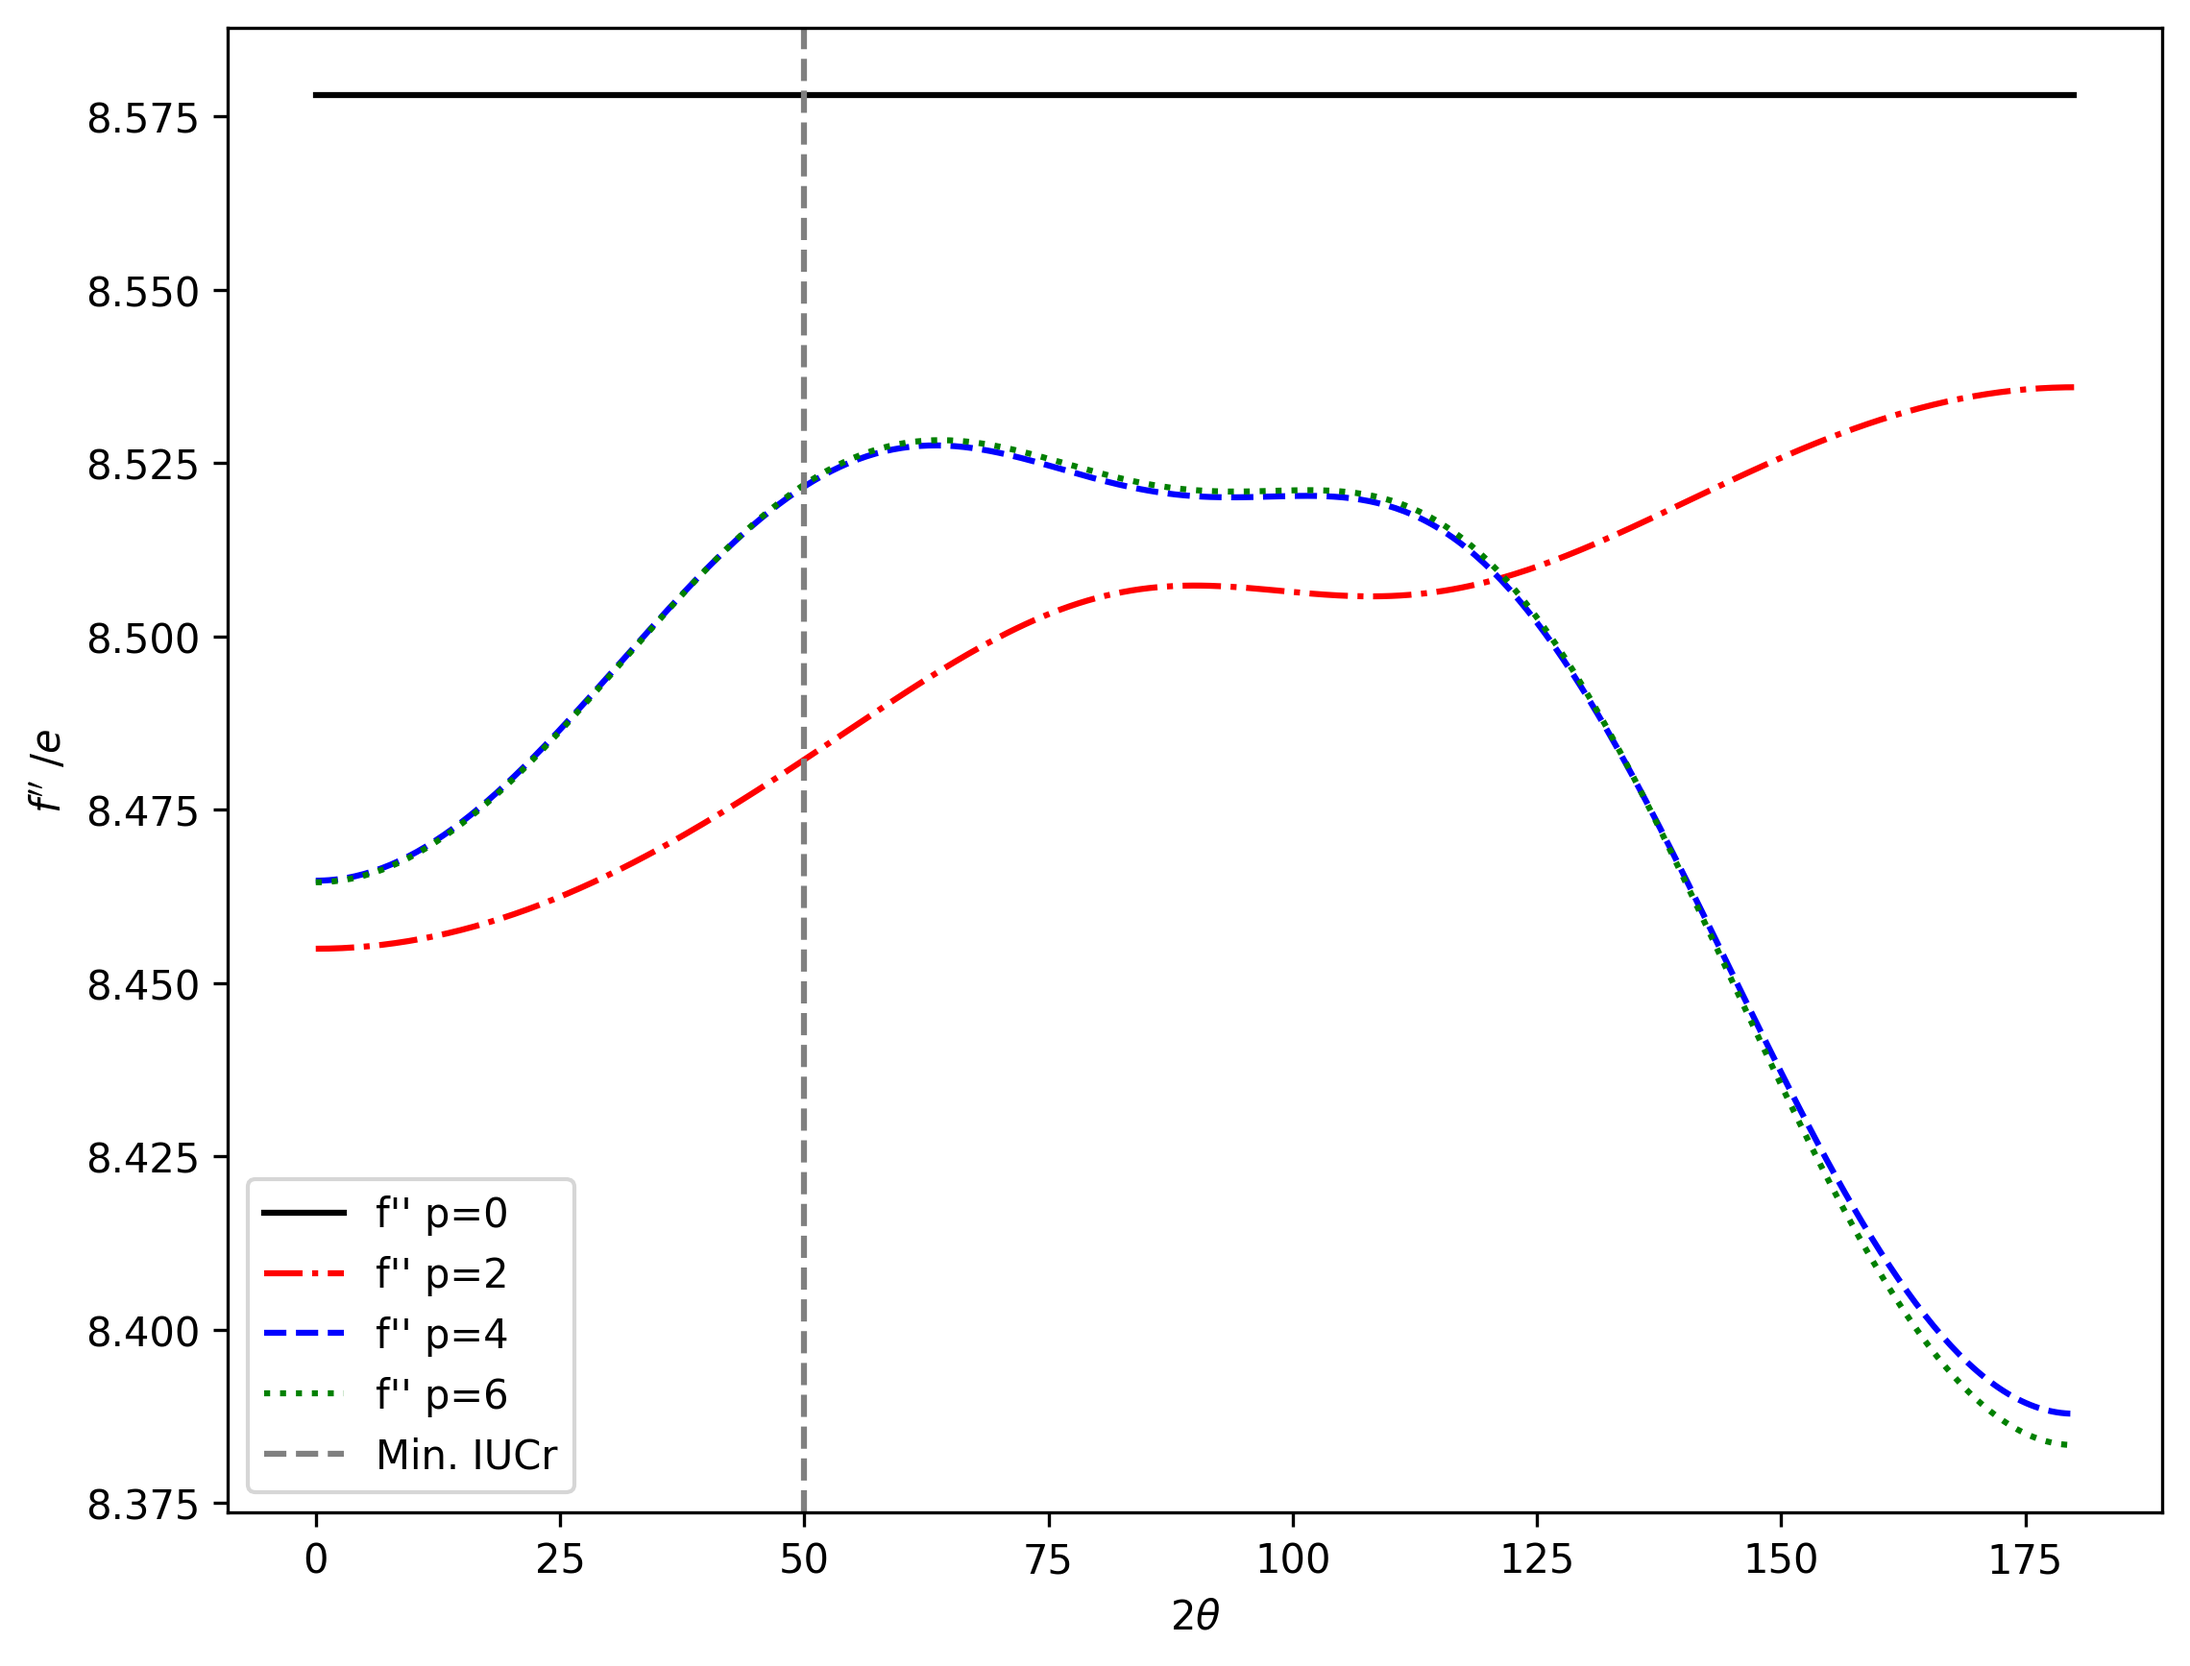
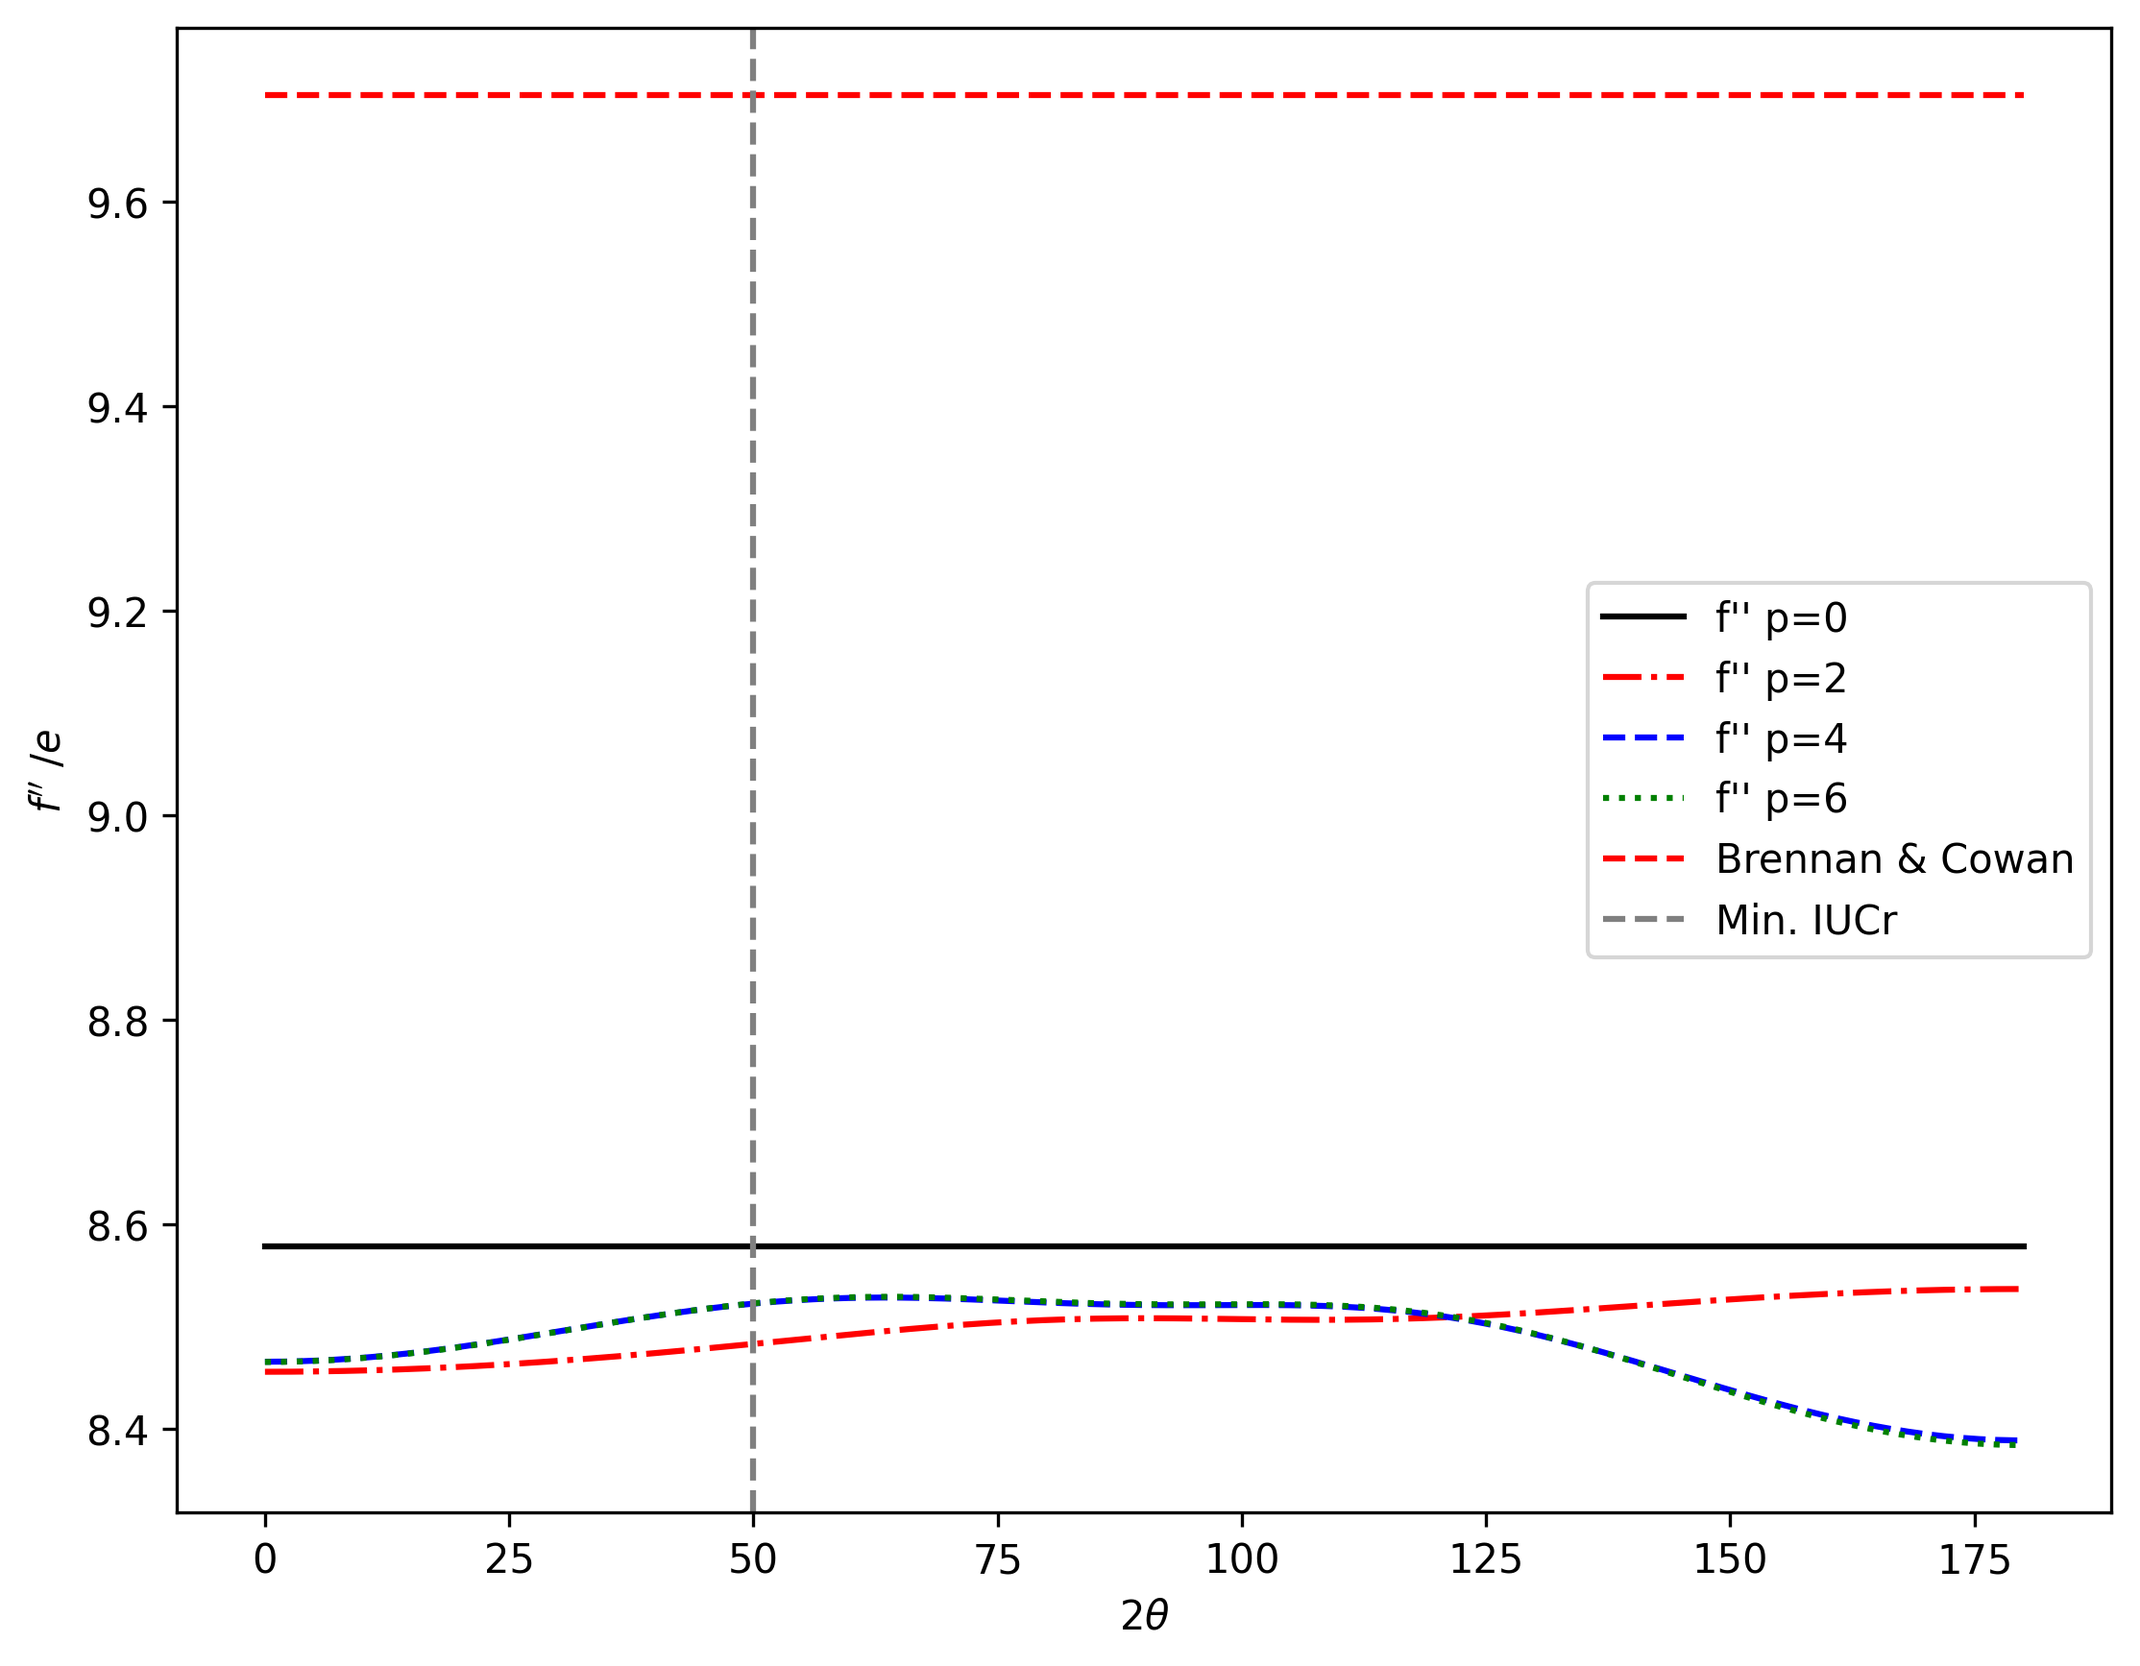
update with brennan line

diff --git a/playing_with_coefficients.py b/playing_with_coefficients.py
@@ -104,6 +104,14 @@ def calc_stuff_with_brennan(nu_in, t0, l_max, p_max, el_nr, br, e):
   
   return t1,t2,t3,t4,t5,t6,t7,t8,t9, brennan_fdp, hönl_K, hönl_L, hönl_M, hönl
 
+def calc_stuff_hoenl(nu_in, t0, l_max, p_max, el_nr, br, e):
+  wavelength = speed_of_light / nu_in * 1E10
+
+  brennan_fdp = br.at_angstrom(wavelength, e)[1]
+  hönl_K,hönl_L,hönl_M,hönl = calc_hoenllike(h*nu_in, el_nr)
+  
+  return brennan_fdp, hönl_K, hönl_L, hönl_M, hönl
+
 def calc_stuff_only_sums(nu_in, t0, l_max, p_max, el_nr) -> float:
   t1,t2,t3,t4,t5,t6,t7,t8,t9 = calc_stuff(nu_in, t0, l_max, p_max, el_nr)
 
@@ -145,6 +153,7 @@ if __name__ == "__main__":
   numplot = False
   theta_plot = False
   fcf_test = False
+  spectrum_plot = False
   cmaps = ['blue','orange','green','red','black','blue','orange','green','red','black']
   t0:float = 0
   alp:float = 0
@@ -186,7 +195,8 @@ if __name__ == "__main__":
         ('Dispersion Coefficient Plot', 4),
         ('Numerical Plot', 6),
         ('Theta Plot', 7),
-        ('fcf&cif of angular_effect', 8)
+        ('fcf&cif of angular_effect', 8),
+        ("spectrum plot", 9)
         ]
   result = 0
   def set_result():
@@ -237,6 +247,8 @@ if __name__ == "__main__":
     theta_plot = True
   elif result == 8:
     fcf_test = True
+  elif result == 9:
+    spectrum_plot = True
 
   if test_1s == True:
     b_ = b(1,0,1)
@@ -1681,6 +1693,7 @@ if __name__ == "__main__":
   
       
       fig.suptitle(r"$\theta_0$ = {:4.2f} $\pi$".format(t0/math.pi))
+      
       plt.subplots_adjust(left=0.05, bottom=0.04, right=1.0, top=0.95, wspace=0.10, hspace=0.175)
       plt.show()
     #with open('factor_profiling_stats.txt', 'w') as stream:
@@ -1690,7 +1703,56 @@ if __name__ == "__main__":
     #    stats.dump_stats('.prof_stats')
     #    stats.print_stats()
       exit()
+  if spectrum_plot == True:
+    print("Performing Disp Correction Calculation")
+    #axis x is in nu
+    x = np.logspace(math.log10(speed_of_light*1E10/lam_min), 
+                    math.log10(speed_of_light*1E10/lam_max), 
+                    steps)
   
+    np.random.seed(int(np.ceil(time())))
+    t0 = np.random.random(1)[0] * math.pi
+    if overwrite_theta == True:
+      t0 = 0
+    TS = math.sqrt((1.0+np.cos(t0)**2)/2.0)
+    e = elements[el_nr]
+  
+    br = brennan()
+    hönl_K  = np.zeros_like(x)
+    hönl_L  = np.zeros_like(x)
+    hönl_M  = np.zeros_like(x)
+    hönl    = np.zeros_like(x)
+    brennan_fdp = np.zeros_like(x)
+    
+    with multiprocessing.Pool(multiprocessing.cpu_count()) as pool:
+      res = pool.starmap(calc_stuff_hoenl, zip(x, repeat(t0), repeat(l_max), repeat(p_max), repeat(el_nr), repeat(br), repeat(e)))
+      for i,r in enumerate(res):
+        brennan_fdp[i], hönl_K[i], hönl_L[i], hönl_M[i], hönl[i] = r
+    
+    second_x = speed_of_light / x * 1E10      
+    fig, axes = plt.subplots(1,1)
+  
+    axes.axhline(y=0,linestyle='dashed',color='gray')# type: ignore
+    axes.plot(second_x,brennan_fdp,color='r',label="Brennan & Cowan")# type: ignore
+    axes.plot(second_x,hönl,color='b',label="AnomDisp")# type: ignore
+    axes.set_ylabel(r"$f''$ /$e$")
+    axes.set_xlabel(r"$\lambda /\AA$")
+  
+    ticks = np.array([0.2,0.3,0.5,0.7,1.0,1.5])
+  
+    for ax in fig.get_axes():
+      ax.set_xscale('log')
+      ax.set_xlim(lam_min,lam_max)
+      ax.set_xticks(ticks)
+      ax.get_xaxis().get_major_formatter().labelOnlyBase = False
+      ax.get_xaxis().set_major_formatter(ticker.ScalarFormatter())
+      ax.legend()
+    fig.set_figheight(inches(17))
+    fig.set_figwidth(inches(22))
+    plt.subplots_adjust(left=0.05, bottom=0.04, right=1.0, top=0.95, wspace=0.10, hspace=0.175)
+    fig.savefig('%s_atMo_spectrum.png'%e,dpi=300,bbox_inches='tight')
+    plt.show()
+    
   if numplot == True: 
 
     print("performing comparison of numerical and ealuation at a given energy")
@@ -1788,12 +1850,16 @@ if __name__ == "__main__":
     p2 = np.zeros_like(x)
     p4 = np.zeros_like(x)
     p6 = np.zeros_like(x)
+    bc = np.zeros_like(x)
 
     nu = speed_of_light*1E10/0.71078
 
     TS = np.sqrt((1.0+np.cos(x)**2)/2.0)
+    from brennan import brennan
+    br = brennan()
 
-    with multiprocessing.Pool(multiprocessing.cpu_count()) as pool:
+    with multiprocessing.Pool(16) as pool:
+      brennan_value = br.at_angstrom(0.71073,"Zr")
       res  = pool.starmap(calc_stuff_only_sums, zip(repeat(nu), x, repeat(10), repeat(0), repeat(40)))
       res2 = pool.starmap(calc_stuff_only_sums, zip(repeat(nu), x, repeat(10), repeat(2), repeat(40)))
       res4 = pool.starmap(calc_stuff_only_sums, zip(repeat(nu), x, repeat(10), repeat(4), repeat(40)))
@@ -1803,6 +1869,7 @@ if __name__ == "__main__":
         p2[i] = res2[i]
         p4[i] = res4[i]
         p6[i] = res6[i]
+        bc[i] = brennan_value[1]
 
     p0 /= TS
     p2 /= TS
@@ -1822,6 +1889,7 @@ if __name__ == "__main__":
     axes.plot(angle,p2,"r-.",label="f'' p=2")# type: ignore
     axes.plot(angle,p4,"b--",label="f'' p=4")# type: ignore
     axes.plot(angle,p6,"g:",label="f'' p=6")# type: ignore
+    axes.plot(angle,bc,linestyle='dashed', color='red',label="Brennan & Cowan")# type: ignore
     axes.set_ylabel(r"$f''$ /$e$")
     axes.set_xlabel(r"$2\theta$")
     axes.axvline(x=50,linestyle='dashed',color='gray',label='Min. IUCr')# type: ignore
@@ -1832,7 +1900,8 @@ if __name__ == "__main__":
     
     fig.savefig('Zr_atMo.png',dpi=300,bbox_inches='tight')
 
-    with multiprocessing.Pool(multiprocessing.cpu_count()) as pool:
+    with multiprocessing.Pool(16) as pool:
+      brennan_value = br.at_angstrom(0.710731,"Sr")
       res  = pool.starmap(calc_stuff_only_sums, zip(repeat(nu), x, repeat(10), repeat(0), repeat(38)))
       res2 = pool.starmap(calc_stuff_only_sums, zip(repeat(nu), x, repeat(10), repeat(2), repeat(38)))
       res4 = pool.starmap(calc_stuff_only_sums, zip(repeat(nu), x, repeat(10), repeat(4), repeat(38)))
@@ -1842,6 +1911,7 @@ if __name__ == "__main__":
         p2[i] = res2[i]
         p4[i] = res4[i]
         p6[i] = res6[i]
+        bc[i] = brennan_value[1]
 
     p0 /= TS
     p2 /= TS
@@ -1856,6 +1926,7 @@ if __name__ == "__main__":
     axes.plot(angle,p2,"r-.",label="f'' p=2")# type: ignore
     axes.plot(angle,p4,"b--",label="f'' p=4")# type: ignore
     axes.plot(angle,p6,"g:",label="f'' p=6")# type: ignore
+    axes.plot(angle,bc,linestyle='dashed', color='red',label="Brennan & Cowan")# type: ignore
     axes.set_ylabel(r"$f''$ /$e$")
     axes.set_xlabel(r"$2\theta$")
     axes.axvline(x=50,linestyle='dashed',color='gray',label='Min. IUCr')# type: ignore
@@ -1866,7 +1937,8 @@ if __name__ == "__main__":
     
     fig.savefig('Sr_atMo.png',dpi=300,bbox_inches='tight')
     
-    with multiprocessing.Pool(multiprocessing.cpu_count()) as pool:
+    with multiprocessing.Pool(16) as pool:
+      brennan_value = br.at_angstrom(0.710731,"U")
       res  = pool.starmap(calc_stuff_only_sums, zip(repeat(nu), x, repeat(10), repeat(0), repeat(92)))
       res2 = pool.starmap(calc_stuff_only_sums, zip(repeat(nu), x, repeat(10), repeat(2), repeat(92)))
       res4 = pool.starmap(calc_stuff_only_sums, zip(repeat(nu), x, repeat(10), repeat(4), repeat(92)))
@@ -1876,6 +1948,7 @@ if __name__ == "__main__":
         p2[i] = res2[i]
         p4[i] = res4[i]
         p6[i] = res6[i]
+        bc[i] = brennan_value[1]
 
     p0 /= TS
     p2 /= TS
@@ -1890,6 +1963,7 @@ if __name__ == "__main__":
     axes.plot(angle,p2,"r-.",label="f'' p=2")# type: ignore
     axes.plot(angle,p4,"b--",label="f'' p=4")# type: ignore
     axes.plot(angle,p6,"g:",label="f'' p=6")# type: ignore
+    axes.plot(angle,bc,linestyle='dashed', color='red',label="Brennan & Cowan")# type: ignore
     axes.set_ylabel(r"$f''$ /$e$")
     axes.set_xlabel(r"$2\theta$")
     axes.axvline(x=50,linestyle='dashed',color='gray',label='Min. IUCr')# type: ignore
